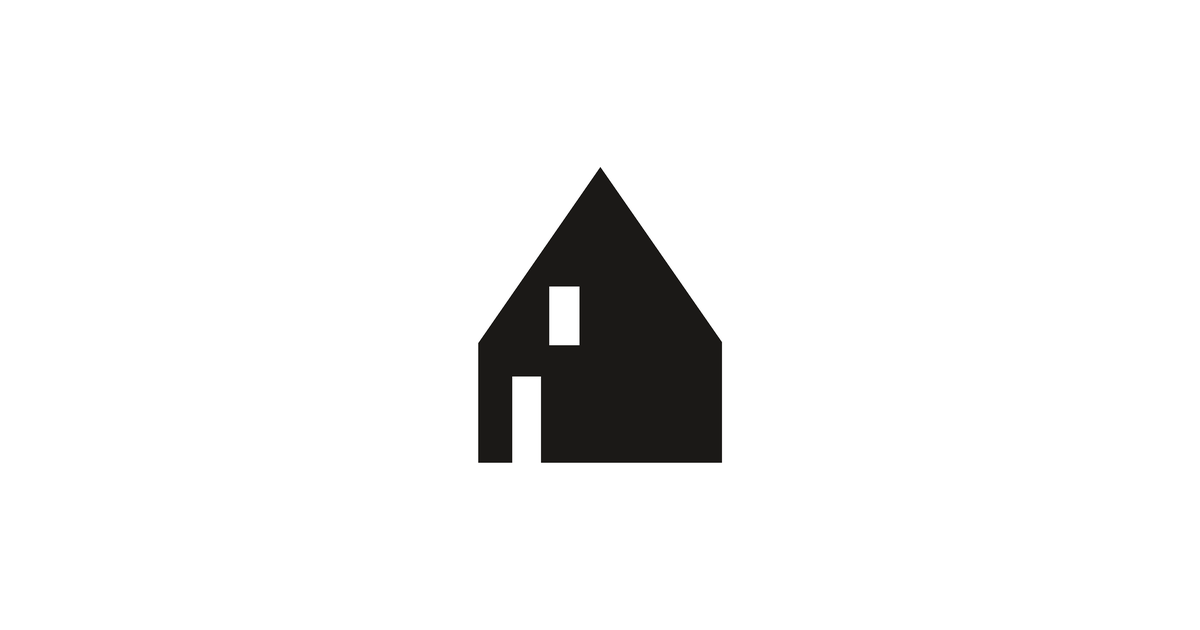
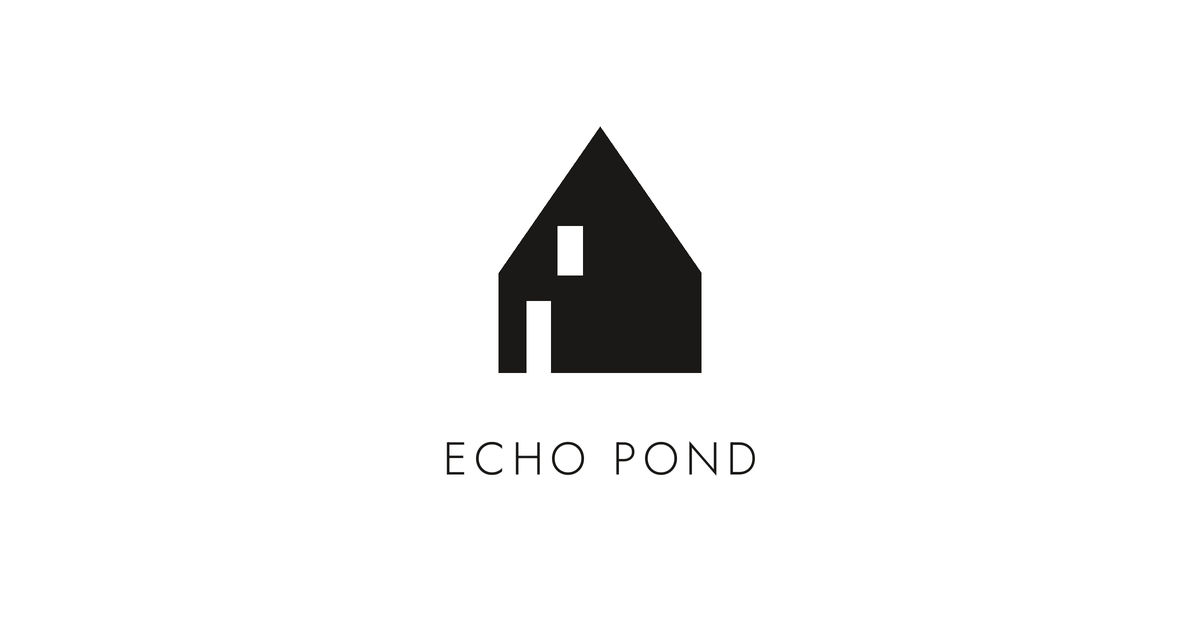
SEO and metadata for the tar design
theme-color and color-scheme (dark); SVG favicon, web manifest and 192/512 icons;
share card with the name under the house; structured data keeps photographs and
adds the icon as the site logo; dateModified and sitemap lastmod 2026-09-19;
fonts trimmed (Jost requested for the hero's letters only), tar.css preloaded.

Claude-Session: https://claude.ai/code/session_015nVt1JmLYMDbL5UpACzd4s

Changed region(s): [[0.37, 0.2111, 0.6475, 0.754]]

diff --git a/watch/index.html b/watch/index.html
@@ -9,7 +9,7 @@
   <meta name="description" content="Films and photographs of the construction of Echo Pond, a house by Of Possible built by NS Builders in Canton, Massachusetts, documented by Motif Media, including the making of the megashingle.">
   <link rel="preconnect" href="https://fonts.googleapis.com">
   <link rel="preconnect" href="https://fonts.gstatic.com" crossorigin>
-  <link href="https://fonts.googleapis.com/css2?family=Schibsted+Grotesk:ital,wght@0,400;0,500;0,600;1,400&family=Jost:wght@300;400&family=IBM+Plex+Mono:wght@400;500&family=Source+Serif+4:ital,opsz,wght@0,8..60,400;0,8..60,500;1,8..60,400&display=swap" rel="stylesheet">
+  <link href="https://fonts.googleapis.com/css2?family=Schibsted+Grotesk:wght@400;500;600&family=IBM+Plex+Mono&family=Source+Serif+4:ital,opsz,wght@0,8..60,400;0,8..60,500;1,8..60,400&display=swap" rel="stylesheet">
   <link rel="stylesheet" href="../css/main.css?v=20260919t">
   <link rel="stylesheet" href="../css/watch.css?v=20260919t">
   <title>Watch: Films and Photographs of the Build | Echo Pond</title>
@@ -36,7 +36,18 @@
      "@id": "https://echopond.org/#site",
      "name": "Echo Pond",
      "url": "https://echopond.org/",
-     "inLanguage": "en"
+     "inLanguage": "en",
+     "publisher": {
+      "@type": "Organization",
+      "name": "Echo Pond",
+      "url": "https://echopond.org/",
+      "logo": {
+       "@type": "ImageObject",
+       "url": "https://echopond.org/icon-512.png",
+       "width": 512,
+       "height": 512
+      }
+     }
     },
     {
      "@type": "CollectionPage",
@@ -49,8 +60,12 @@
      "isPartOf": {
       "@id": "https://echopond.org/#site"
      },
-     "image": "https://echopond.org/media/share.jpg",
-     "dateModified": "2026-09-18",
+     "image": [
+      "https://echopond.org/media/share.jpg",
+      "https://echopond.org/media/build/shingle-01.jpg",
+      "https://echopond.org/media/build/interior-01.jpg"
+     ],
+     "dateModified": "2026-09-19",
      "about": {
       "@type": "House",
       "name": "Echo Pond",
@@ -120,6 +135,10 @@
   <script type="application/ld+json">{"@context": "https://schema.org", "@type": "ItemList", "name": "Films of the construction of Echo Pond", "itemListElement": [{"@type": "ListItem", "position": 1, "item": {"@type": "VideoObject", "name": "One Shingle to Rule Them All!", "description": "Vincent Appel and Nick Schiffer on the house-shaped house and its megashingle, a plywood shingle made from a four-by-eight sheet cut in half: why it is that size, how the pine tar finish was developed, and how the corners were resolved.", "thumbnailUrl": "https://echopond.org/media/watch/motif-shingle.jpg", "uploadDate": "2025-11-15T09:01:33-08:00", "duration": "PT19M19S", "embedUrl": "https://www.youtube-nocookie.com/embed/rvHLIBiDnXw", "contentUrl": "https://www.youtube.com/watch?v=20260919tHLIBiDnXw", "url": "https://echopond.org/watch/#v-rvHLIBiDnXw", "publisher": {"@type": "Organization", "name": "NS Builders", "url": "https://nsbuilders.com/"}}}, {"@type": "ListItem", "position": 2, "item": {"@type": "VideoObject", "name": "How We Built A Road Through The Woods", "description": "Before the house, a road: 1,400 feet through forest and ledge, a culvert across the wetland, a water line to a new hydrant, and at the end the first view of the pond from the house site.", "thumbnailUrl": "https://echopond.org/media/watch/motif-road.jpg", "uploadDate": "2025-01-18T09:00:16-08:00", "duration": "PT11M2S", "embedUrl": "https://www.youtube-nocookie.com/embed/BaC_3ogC9ro", "contentUrl": "https://www.youtube.com/watch?v=BaC_3ogC9ro", "url": "https://echopond.org/watch/#v-BaC_3ogC9ro", "publisher": {"@type": "Organization", "name": "NS Builders", "url": "https://nsbuilders.com/"}}}, {"@type": "ListItem", "position": 3, "item": {"@type": "VideoObject", "name": "Frost Protected Slab Explained", "description": "A quarter mile into the woods, the blasted ledge is backfilled and compacted in lifts, and the site is prepared for a slab that sits on insulation.", "thumbnailUrl": "https://echopond.org/media/watch/motif-ground.jpg", "uploadDate": "2025-03-22T09:00:21-07:00", "duration": "PT5M27S", "embedUrl": "https://www.youtube-nocookie.com/embed/MhLc0iGWi-0", "contentUrl": "https://www.youtube.com/watch?v=MhLc0iGWi-0", "url": "https://echopond.org/watch/#v-MhLc0iGWi-0", "publisher": {"@type": "Organization", "name": "NS Builders", "url": "https://nsbuilders.com/"}}}, {"@type": "ListItem", "position": 4, "item": {"@type": "VideoObject", "name": "You Don’t See Foundation Systems like this in New England Often", "description": "Nick Schiffer and Vincent Appel explain the frost-protected shallow foundation: a raft of concrete insulated horizontally, in place of walls carried four feet below grade.", "thumbnailUrl": "https://echopond.org/media/watch/motif-foundation.jpg", "uploadDate": "2025-11-08T09:00:43-08:00", "duration": "PT15M5S", "embedUrl": "https://www.youtube-nocookie.com/embed/bI9LoK33mso", "contentUrl": "https://www.youtube.com/watch?v=20260919tI9LoK33mso", "url": "https://echopond.org/watch/#v-bI9LoK33mso", "publisher": {"@type": "Organization", "name": "NS Builders", "url": "https://nsbuilders.com/"}}}, {"@type": "ListItem", "position": 5, "item": {"@type": "VideoObject", "name": "Why Exterior Insulation Is The Key To Your Home’s Future", "description": "With John Deans of 475 Supply: mineral wool board outside the walls and over the roof, so the framing never meets the cold.", "thumbnailUrl": "https://echopond.org/media/watch/motif-envelope.jpg", "uploadDate": "2025-10-04T09:01:32-07:00", "duration": "PT13M57S", "embedUrl": "https://www.youtube-nocookie.com/embed/ppB_ZccKU8A", "contentUrl": "https://www.youtube.com/watch?v=20260919tB_ZccKU8A", "url": "https://echopond.org/watch/#v-ppB_ZccKU8A", "publisher": {"@type": "Organization", "name": "NS Builders", "url": "https://nsbuilders.com/"}}}, {"@type": "ListItem", "position": 6, "item": {"@type": "VideoObject", "name": "Installing Floor to Ceiling Sliding Glass in Modern Nordic Cabin", "description": "Nine-foot lift-slide units, made as doors, are set as operable windows so the first floor looks to the pond from floor to ceiling.", "thumbnailUrl": "https://echopond.org/media/watch/motif-glass.jpg", "uploadDate": "2025-09-07T05:00:17-07:00", "duration": "PT13M16S", "embedUrl": "https://www.youtube-nocookie.com/embed/BOKRcWW7k-U", "contentUrl": "https://www.youtube.com/watch?v=BOKRcWW7k-U", "url": "https://echopond.org/watch/#v-BOKRcWW7k-U", "publisher": {"@type": "Organization", "name": "NS Builders", "url": "https://nsbuilders.com/"}}}, {"@type": "ListItem", "position": 7, "item": {"@type": "VideoObject", "name": "How This Home Connects Indoor Living with The Outdoors", "description": "The finished first floor, and the detail work that lets the glass slide out of view.", "thumbnailUrl": "https://echopond.org/media/watch/motif-interior.jpg", "uploadDate": "2026-05-29T08:30:16-07:00", "duration": "PT10M25S", "embedUrl": "https://www.youtube-nocookie.com/embed/1ejXKrKS5bQ", "contentUrl": "https://www.youtube.com/watch?v=20260919tXKrKS5bQ", "url": "https://echopond.org/watch/#v-1ejXKrKS5bQ", "publisher": {"@type": "Organization", "name": "NS Builders", "url": "https://nsbuilders.com/"}}}, {"@type": "ListItem", "position": 8, "item": {"@type": "VideoObject", "name": "The Hidden Craftsmanship on This Epic House", "description": "Nick Schiffer and superintendent Marc Murray walk builder Mark Williams through the house as it nears completion: the pine-tarred shingle and its eighth-inch seams, the drip edge and stone base, the lift-slide glass and polished slab.", "thumbnailUrl": "https://echopond.org/media/watch/motif-shingle-alt.jpg", "uploadDate": "2025-11-22T09:00:39-08:00", "duration": "PT17M25S", "embedUrl": "https://www.youtube-nocookie.com/embed/i2ize6_w14g", "contentUrl": "https://www.youtube.com/watch?v=20260919t_w14g", "url": "https://echopond.org/watch/#v-i2ize6_w14g", "publisher": {"@type": "Organization", "name": "NS Builders", "url": "https://nsbuilders.com/"}}}]}</script>
   <!-- /VIDEOS -->
   <link rel="stylesheet" href="../css/tar.css?v=20260919t">
+  <meta name="theme-color" content="#1b1917">
+  <meta name="color-scheme" content="dark">
+  <link rel="icon" type="image/svg+xml" href="/favicon.svg">
+  <link rel="manifest" href="/site.webmanifest">
   <script src="../js/place.js"></script>
 </head>
 <body data-design="tar" class="watch-page">

diff --git a/build/index.html b/build/index.html
@@ -9,7 +9,7 @@
   <meta name="description" content="How Echo Pond, the house-shaped house, is built: the wall assembly, foundation, frame, envelope, the pine-tarred plywood megashingle (mega-shingle), glass, interior, furnishings and landscape of a house by Of Possible and NS Builders in Canton, Massachusetts.">
   <link rel="preconnect" href="https://fonts.googleapis.com">
   <link rel="preconnect" href="https://fonts.gstatic.com" crossorigin>
-  <link href="https://fonts.googleapis.com/css2?family=Schibsted+Grotesk:ital,wght@0,400;0,500;0,600;1,400&family=Jost:wght@300;400&family=IBM+Plex+Mono:wght@400;500&family=Source+Serif+4:ital,opsz,wght@0,8..60,400;0,8..60,500;1,8..60,400&display=swap" rel="stylesheet">
+  <link href="https://fonts.googleapis.com/css2?family=Schibsted+Grotesk:wght@400;500;600&family=IBM+Plex+Mono&family=Source+Serif+4:ital,opsz,wght@0,8..60,400;0,8..60,500;1,8..60,400&display=swap" rel="stylesheet">
   <link rel="stylesheet" href="../css/main.css?v=20260919t">
   <link rel="stylesheet" href="../css/watch.css?v=20260919t">
   <link rel="stylesheet" href="../css/build.css?v=20260919t">
@@ -36,7 +36,18 @@
      "@id": "https://echopond.org/#site",
      "name": "Echo Pond",
      "url": "https://echopond.org/",
-     "inLanguage": "en"
+     "inLanguage": "en",
+     "publisher": {
+      "@type": "Organization",
+      "name": "Echo Pond",
+      "url": "https://echopond.org/",
+      "logo": {
+       "@type": "ImageObject",
+       "url": "https://echopond.org/icon-512.png",
+       "width": 512,
+       "height": 512
+      }
+     }
     },
     {
      "@type": "TechArticle",
@@ -49,8 +60,12 @@
      "isPartOf": {
       "@id": "https://echopond.org/#site"
      },
-     "image": "https://echopond.org/media/share.jpg",
-     "dateModified": "2026-09-18",
+     "image": [
+      "https://echopond.org/media/share.jpg",
+      "https://echopond.org/media/build/shingle-01.jpg",
+      "https://echopond.org/media/build/interior-01.jpg"
+     ],
+     "dateModified": "2026-09-19",
      "about": {
       "@type": "House",
       "name": "Echo Pond",
@@ -118,6 +133,10 @@
   <!-- /SEO -->
   <script src="../js/analytics.js?v=20260919t" defer></script>
   <link rel="stylesheet" href="../css/tar.css?v=20260919t">
+  <meta name="theme-color" content="#1b1917">
+  <meta name="color-scheme" content="dark">
+  <link rel="icon" type="image/svg+xml" href="/favicon.svg">
+  <link rel="manifest" href="/site.webmanifest">
   <script src="../js/place.js"></script>
 </head>
 <body data-design="tar" class="watch-page build-page">

diff --git a/index.html b/index.html
@@ -16,9 +16,10 @@
 
   <!-- Preload critical CSS -->
   <link rel="preload" href="css/main.css?v=20260919t" as="style">
+  <link rel="preload" href="css/tar.css?v=20260919t" as="style">
 
   <!-- Fonts with display=swap for faster text rendering -->
-  <link href="https://fonts.googleapis.com/css2?family=Schibsted+Grotesk:ital,wght@0,400;0,500;0,600;1,400&family=Jost:wght@300;400&family=IBM+Plex+Mono:wght@400;500&family=Source+Serif+4:ital,opsz,wght@0,8..60,400;0,8..60,500;1,8..60,400&display=swap" rel="stylesheet">
+  <link href="https://fonts.googleapis.com/css2?family=Schibsted+Grotesk:wght@400;500;600&family=IBM+Plex+Mono&family=Source+Serif+4:ital,opsz,wght@0,8..60,400;0,8..60,500;1,8..60,400&display=swap" rel="stylesheet">
 
   <!-- Styles -->
   <link rel="stylesheet" href="css/main.css?v=20260919t">
@@ -51,7 +52,18 @@
      "@id": "https://echopond.org/#site",
      "name": "Echo Pond",
      "url": "https://echopond.org/",
-     "inLanguage": "en"
+     "inLanguage": "en",
+     "publisher": {
+      "@type": "Organization",
+      "name": "Echo Pond",
+      "url": "https://echopond.org/",
+      "logo": {
+       "@type": "ImageObject",
+       "url": "https://echopond.org/icon-512.png",
+       "width": 512,
+       "height": 512
+      }
+     }
     },
     {
      "@type": "Article",
@@ -64,8 +76,12 @@
      "isPartOf": {
       "@id": "https://echopond.org/#site"
      },
-     "image": "https://echopond.org/media/share.jpg",
-     "dateModified": "2026-09-18",
+     "image": [
+      "https://echopond.org/media/share.jpg",
+      "https://echopond.org/media/build/shingle-01.jpg",
+      "https://echopond.org/media/build/interior-01.jpg"
+     ],
+     "dateModified": "2026-09-19",
      "about": {
       "@type": "House",
       "name": "Echo Pond",
@@ -114,7 +130,12 @@
   }
   </script>
   <!-- /SEO -->
+  <link href="https://fonts.googleapis.com/css2?family=Jost:wght@300&display=swap&text=%20%2C.ACDEHMNOPacdefghiklmnoprstuy" rel="stylesheet">
   <link rel="stylesheet" href="css/tar.css?v=20260919t">
+  <meta name="theme-color" content="#1b1917">
+  <meta name="color-scheme" content="dark">
+  <link rel="icon" type="image/svg+xml" href="/favicon.svg">
+  <link rel="manifest" href="/site.webmanifest">
   <script src="./js/place.js"></script>
 </head>
 <body data-design="tar">

diff --git a/404.html b/404.html
@@ -9,12 +9,16 @@
   <meta name="robots" content="noindex">
   <link rel="preconnect" href="https://fonts.googleapis.com">
   <link rel="preconnect" href="https://fonts.gstatic.com" crossorigin>
-  <link href="https://fonts.googleapis.com/css2?family=Schibsted+Grotesk:ital,wght@0,400;0,500;0,600;1,400&family=Jost:wght@300;400&family=IBM+Plex+Mono:wght@400;500&family=Source+Serif+4:ital,opsz,wght@0,8..60,400;0,8..60,500;1,8..60,400&display=swap" rel="stylesheet">
+  <link href="https://fonts.googleapis.com/css2?family=Schibsted+Grotesk:wght@400;500;600&family=IBM+Plex+Mono&family=Source+Serif+4:ital,opsz,wght@0,8..60,400;0,8..60,500;1,8..60,400&display=swap" rel="stylesheet">
   <link rel="stylesheet" href="/css/main.css?v=20260919t">
   <link rel="stylesheet" href="/css/watch.css?v=20260919t">
   <title>Page not found | Echo Pond</title>
     <style>.notfound{text-align:center;padding-bottom:6rem}.notfound-mark{width:96px;height:auto;margin:0 auto 2rem}.notfound .watch-title{font-size:2.25rem}@media (min-width:768px){.notfound .watch-title{font-size:2.75rem}}</style>
   <link rel="stylesheet" href="/css/tar.css?v=20260919t">
+  <meta name="theme-color" content="#1b1917">
+  <meta name="color-scheme" content="dark">
+  <link rel="icon" type="image/svg+xml" href="/favicon.svg">
+  <link rel="manifest" href="/site.webmanifest">
   <script src="/js/place.js"></script>
 </head>
 <body data-design="tar" class="watch-page">

diff --git a/listen/index.html b/listen/index.html
@@ -8,7 +8,7 @@
 
   <link rel="preconnect" href="https://fonts.googleapis.com">
   <link rel="preconnect" href="https://fonts.gstatic.com" crossorigin>
-  <link href="https://fonts.googleapis.com/css2?family=Schibsted+Grotesk:ital,wght@0,400;0,500;0,600;1,400&family=Jost:wght@300;400&family=IBM+Plex+Mono:wght@400;500&family=Source+Serif+4:ital,opsz,wght@0,8..60,400;0,8..60,500;1,8..60,400&display=swap" rel="stylesheet">
+  <link href="https://fonts.googleapis.com/css2?family=Schibsted+Grotesk:wght@400;500;600&family=IBM+Plex+Mono&family=Source+Serif+4:ital,opsz,wght@0,8..60,400;0,8..60,500;1,8..60,400&display=swap" rel="stylesheet">
   <link rel="icon" href="/favicon.ico" sizes="48x48">
   <link rel="icon" type="image/png" sizes="32x32" href="/favicon-32.png">
   <link rel="apple-touch-icon" href="/apple-touch-icon.png">
@@ -25,6 +25,10 @@
   <title>A House-Shaped House | Echo Pond</title>
   <script src="../js/analytics.js?v=20260919t" defer></script>
   <link rel="stylesheet" href="../css/tar.css?v=20260919t">
+  <meta name="theme-color" content="#1b1917">
+  <meta name="color-scheme" content="dark">
+  <link rel="icon" type="image/svg+xml" href="/favicon.svg">
+  <link rel="manifest" href="/site.webmanifest">
   <script src="../js/place.js"></script>
 </head>
 <body data-design="tar" class="podcast-page">

diff --git a/js/place.js b/js/place.js
@@ -1,4 +1,4 @@
-/* Prototype v3: where and when the house is. Canton, Massachusetts, by date arithmetic only; nothing is fetched.
+/* Where and when the house is. Canton, Massachusetts, by date arithmetic only; nothing is fetched.
    Marks the pond photograph of the current season, and lights the icon's window and door after sunset. */
 (function () {
   var q = new URLSearchParams(location.search), now = new Date();
